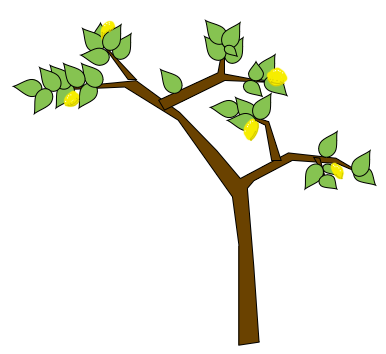
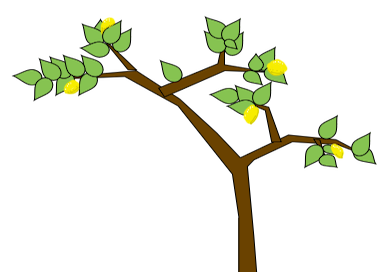
fixed styling in garden, created better blueberry bush

Changed region(s): [[0.0312, 0.0588, 0.9974, 1.0]]

diff --git a/client/src/App.css b/client/src/App.css
@@ -5,6 +5,17 @@
   text-align: center;
 }
 
+footer {
+  margin-top: 2px;
+  clear: both;
+  float: left;
+  width: 35%;
+}
+
+.footer {
+  color: grey;
+}
+
 .StartScreen {
   height: 31em;
   background-size: cover;
@@ -55,6 +66,11 @@ p {
   font-family: 'Love Ya Like A Sister', cursive;
   color: #000;
   margin: -10px 5px 5px 5px;
+}
+
+input:focus {
+  outline: 0;
+
 }
 
 .nav {
@@ -153,11 +169,11 @@ a {
 }
 
 .produce-small {
-  width: 60%;
+  width: 80%;
 }
 
 .produce-large {
-  width: 120%;
+  width: 200%;
 }
 
 .grid-container {
@@ -224,7 +240,7 @@ a {
   background-image: url(./images/dirt.png);
   background-size: cover;
   border-radius: 30px;
-  height: 3em;
+  height: 1.5em;
 }
 
 .sugar, .flour, .milk {
@@ -246,10 +262,6 @@ a {
   background-size: cover;
   border: 6px solid black;
   border-radius: 30px;
-}
-
-.SellingStand {
-  height: 31em;
 }
 
 .workspace {
@@ -312,14 +324,14 @@ a {
 
 /* Safari 4.0 - 8.0 */
 @-webkit-keyframes cloud {
-  0%   {left:-260px; top:0px; opacity: 0;}
+  0%   {left:-250px; top:0px; opacity: 0;}
   25% {opacity: 1;}
   100% {left:300px; top:0px; opacity: 0;}
 }
 
 /* Standard syntax */
 @keyframes cloud {
-  0%   {left:-260px; top:0px; opacity: 0;}
+  0%   {left:-250px; top:0px; opacity: 0;}
   25% {opacity: 1;}
   100% {left:300px; top:0px; opacity: 0;}
 }
@@ -339,7 +351,8 @@ a {
 }
 
 .stand {
-  margin: 8.5em;
+  margin: 7em;
+  position: relative;
   width: 30%;
 }
 

diff --git a/client/src/components/Produce.js b/client/src/components/Produce.js
@@ -3,8 +3,9 @@ import '../App.css';
 import Sprout from '../images/sprout.png';
 import BlueberryBush from '../images/blueberrybush.png';
 import LemonTree from '../images/lemontree.png';
+import SquashPlant from '../images/squash.png';
 
-let seed = '';
+let seed = 'squash';
 
 const whichCrop = (seed) => {
     switch (seed) {
@@ -13,9 +14,9 @@ const whichCrop = (seed) => {
         case 'lemon':
           return <img src={LemonTree} className="produce-large" alt="lemon" />;
         case 'squash':
-          return <img src={BlueberryBush} className="produce-large" alt="squash" />;
+          return <img src={SquashPlant} className="produce-large" alt="squash" />;
         default:
-          return <img src={Sprout} className="produce-large" alt="sprout" />;
+          return <img src={Sprout} className="produce-small" alt="sprout" />;
       }
 };
 

diff --git a/client/src/components/GardenGrid.js b/client/src/components/GardenGrid.js
@@ -12,7 +12,7 @@ class GardenGrid extends Component {
                 <div className="grid-item-small"><Weeds /></div>
                 <div className="grid-item-small"><Weeds /></div>
                 <div className="grid-item-small"><Weeds /></div>
-                <div className="grid-item-small"><Produce /></div>
+                <div className="grid-item-garden"><Produce /></div>
                 <div className="grid-item-small"><Weeds /></div>
                 <div className="grid-item-small"><Weeds /></div>
                 <div className="grid-item-small"><Weeds /></div>

diff --git a/client/src/components/Weeds.js b/client/src/components/Weeds.js
@@ -36,7 +36,7 @@ class Weeds extends Component {
         return (
             <div className="Weeds">
             <div className="grid-container-small">
-                <div className="grid-item-small"><img src={weeds[getRandomInt(weeds.length)]} className="weeds" alt="weeds" /></div>
+                <div className="grid-item-small"><img src={weeds[getRandomInt(weeds.length)] /* Dirt */} className="weeds" alt="weeds" /></div>
             </div>
             </div>
         );

diff --git a/client/src/App.js b/client/src/App.js
@@ -105,6 +105,9 @@ class App extends Component {
             </div>
           </div>
         </div>
+        <footer>
+          <p >Developed by the <a className="footer" href="https://github.com/Lemonade-kids/lemonade">Lemonade Kids</a>.</p>
+        </footer>
       </div>
     );
   }
